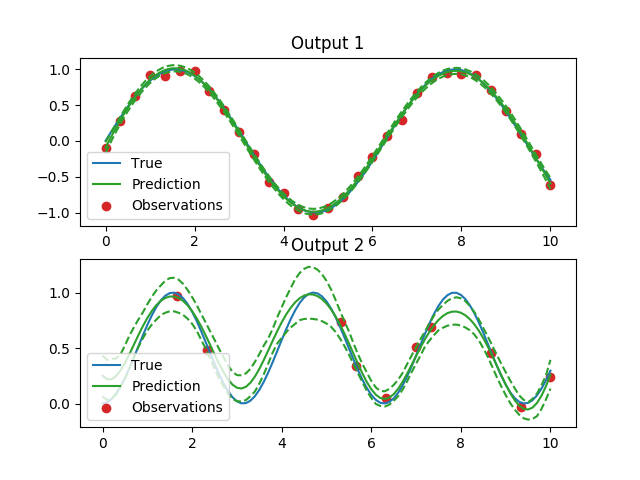
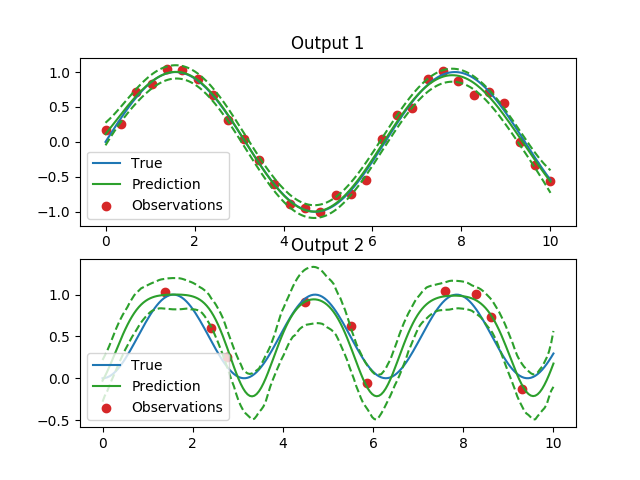
Update examples

diff --git a/readme_example7_gpar.py b/readme_example7_gpar.py
@@ -9,8 +9,8 @@ from stheno.tf import GP, Delta, EQ, Graph, B
 s = tf.Session()
 
 # Define points to predict at.
-x = np.linspace(0, 10, 101)
-x_obs1 = np.linspace(0, 10, 31)
+x = np.linspace(0, 10, 200)
+x_obs1 = np.linspace(0, 10, 30)
 inds2 = np.random.permutation(len(x_obs1))[:10]
 x_obs2 = x_obs1[inds2]
 
@@ -22,7 +22,7 @@ vs2 = Vars(np.float64)
 m1 = Graph()
 m2 = Graph()
 f1 = vs1.pos(1.) * GP(EQ(), graph=m1).stretch(vs1.pos(1.))
-f2 = vs2.pos(1.) * GP(EQ(), graph=m2).stretch(vs2.pos([1., .1]))
+f2 = vs2.pos(1.) * GP(EQ(), graph=m2).stretch(vs2.pos([1., .5]))
 sig1 = vs1.pos(0.1)
 sig2 = vs2.pos(0.1)
 
@@ -42,15 +42,15 @@ y2 = f2 + e2
 f1_true = np.sin(x)
 f2_true = np.sin(x) ** 2
 
-y1_obs = np.sin(x_obs1) + 0.05 * np.random.randn(*x_obs1.shape)
-y2_obs = np.sin(x_obs2) ** 2 + 0.05 * np.random.randn(*x_obs2.shape)
+y1_obs = np.sin(x_obs1) + 0.1 * np.random.randn(*x_obs1.shape)
+y2_obs = np.sin(x_obs2) ** 2 + 0.1 * np.random.randn(*x_obs2.shape)
 
 # Learn.
 lml1 = y1(x_obs1).log_pdf(y1_obs)
-SOI(-lml1, var_list=vs1.latents).minimize(s)
+SOI(-lml1, var_list=vs1.vars).minimize(s)
 
 lml2 = y2(np.stack((x_obs2, y1_obs[inds2]), axis=1)).log_pdf(y2_obs)
-SOI(-lml2, var_list=vs2.latents).minimize(s)
+SOI(-lml2, var_list=vs2.vars).minimize(s)
 
 # Predict first output.
 mean1, lower1, upper1 = s.run(f1.condition(y1 @ x_obs1, y1_obs).predict(x))

diff --git a/doc/readme.rst b/doc/readme.rst
@@ -459,8 +459,8 @@ Example: GPAR
     s = tf.Session()
 
     # Define points to predict at.
-    x = np.linspace(0, 10, 101)
-    x_obs1 = np.linspace(0, 10, 31)
+    x = np.linspace(0, 10, 200)
+    x_obs1 = np.linspace(0, 10, 30)
     inds2 = np.random.permutation(len(x_obs1))[:10]
     x_obs2 = x_obs1[inds2]
 
@@ -472,7 +472,7 @@ Example: GPAR
     m1 = Graph()
     m2 = Graph()
     f1 = vs1.pos(1.) * GP(EQ(), graph=m1).stretch(vs1.pos(1.))
-    f2 = vs2.pos(1.) * GP(EQ(), graph=m2).stretch(vs2.pos([1., .1]))
+    f2 = vs2.pos(1.) * GP(EQ(), graph=m2).stretch(vs2.pos([1., .5]))
     sig1 = vs1.pos(0.1)
     sig2 = vs2.pos(0.1)
 
@@ -492,15 +492,15 @@ Example: GPAR
     f1_true = np.sin(x)
     f2_true = np.sin(x) ** 2
 
-    y1_obs = np.sin(x_obs1) + 0.05 * np.random.randn(*x_obs1.shape)
-    y2_obs = np.sin(x_obs2) ** 2 + 0.05 * np.random.randn(*x_obs2.shape)
+    y1_obs = np.sin(x_obs1) + 0.1 * np.random.randn(*x_obs1.shape)
+    y2_obs = np.sin(x_obs2) ** 2 + 0.1 * np.random.randn(*x_obs2.shape)
 
     # Learn.
     lml1 = y1(x_obs1).log_pdf(y1_obs)
-    SOI(-lml1, var_list=vs1.latents).minimize(s)
+    SOI(-lml1, var_list=vs1.vars).minimize(s)
 
     lml2 = y2(np.stack((x_obs2, y1_obs[inds2]), axis=1)).log_pdf(y2_obs)
-    SOI(-lml2, var_list=vs2.latents).minimize(s)
+    SOI(-lml2, var_list=vs2.vars).minimize(s)
 
     # Predict first output.
     mean1, lower1, upper1 = s.run(f1.condition(y1 @ x_obs1, y1_obs).predict(x))
@@ -539,7 +539,7 @@ Example: GPAR
 Example: A GP–RNN Model
 -----------------------
 
-.. figure:: https://raw.githubusercontent.com/wesselb/stheno/master/readme_prediction8_rnn.png
+.. figure:: https://raw.githubusercontent.com/wesselb/stheno/master/readme_prediction8_gp_rnn.png
    :alt: Prediction
 
    Prediction

diff --git a/README.md b/README.md
@@ -434,8 +434,8 @@ from stheno.tf import GP, Delta, EQ, Graph, B
 s = tf.Session()
 
 # Define points to predict at.
-x = np.linspace(0, 10, 101)
-x_obs1 = np.linspace(0, 10, 31)
+x = np.linspace(0, 10, 200)
+x_obs1 = np.linspace(0, 10, 30)
 inds2 = np.random.permutation(len(x_obs1))[:10]
 x_obs2 = x_obs1[inds2]
 
@@ -447,7 +447,7 @@ vs2 = Vars(np.float64)
 m1 = Graph()
 m2 = Graph()
 f1 = vs1.pos(1.) * GP(EQ(), graph=m1).stretch(vs1.pos(1.))
-f2 = vs2.pos(1.) * GP(EQ(), graph=m2).stretch(vs2.pos([1., .1]))
+f2 = vs2.pos(1.) * GP(EQ(), graph=m2).stretch(vs2.pos([1., .5]))
 sig1 = vs1.pos(0.1)
 sig2 = vs2.pos(0.1)
 
@@ -467,15 +467,15 @@ y2 = f2 + e2
 f1_true = np.sin(x)
 f2_true = np.sin(x) ** 2
 
-y1_obs = np.sin(x_obs1) + 0.05 * np.random.randn(*x_obs1.shape)
-y2_obs = np.sin(x_obs2) ** 2 + 0.05 * np.random.randn(*x_obs2.shape)
+y1_obs = np.sin(x_obs1) + 0.1 * np.random.randn(*x_obs1.shape)
+y2_obs = np.sin(x_obs2) ** 2 + 0.1 * np.random.randn(*x_obs2.shape)
 
 # Learn.
 lml1 = y1(x_obs1).log_pdf(y1_obs)
-SOI(-lml1, var_list=vs1.latents).minimize(s)
+SOI(-lml1, var_list=vs1.vars).minimize(s)
 
 lml2 = y2(np.stack((x_obs2, y1_obs[inds2]), axis=1)).log_pdf(y2_obs)
-SOI(-lml2, var_list=vs2.latents).minimize(s)
+SOI(-lml2, var_list=vs2.vars).minimize(s)
 
 # Predict first output.
 mean1, lower1, upper1 = s.run(f1.condition(y1 @ x_obs1, y1_obs).predict(x))
@@ -514,7 +514,7 @@ plt.show()
 
 ## Example: A GP–RNN Model
 
-![Prediction](https://raw.githubusercontent.com/wesselb/stheno/master/readme_prediction8_rnn.png)
+![Prediction](https://raw.githubusercontent.com/wesselb/stheno/master/readme_prediction8_gp_rnn.png)
 
 
 ```python
